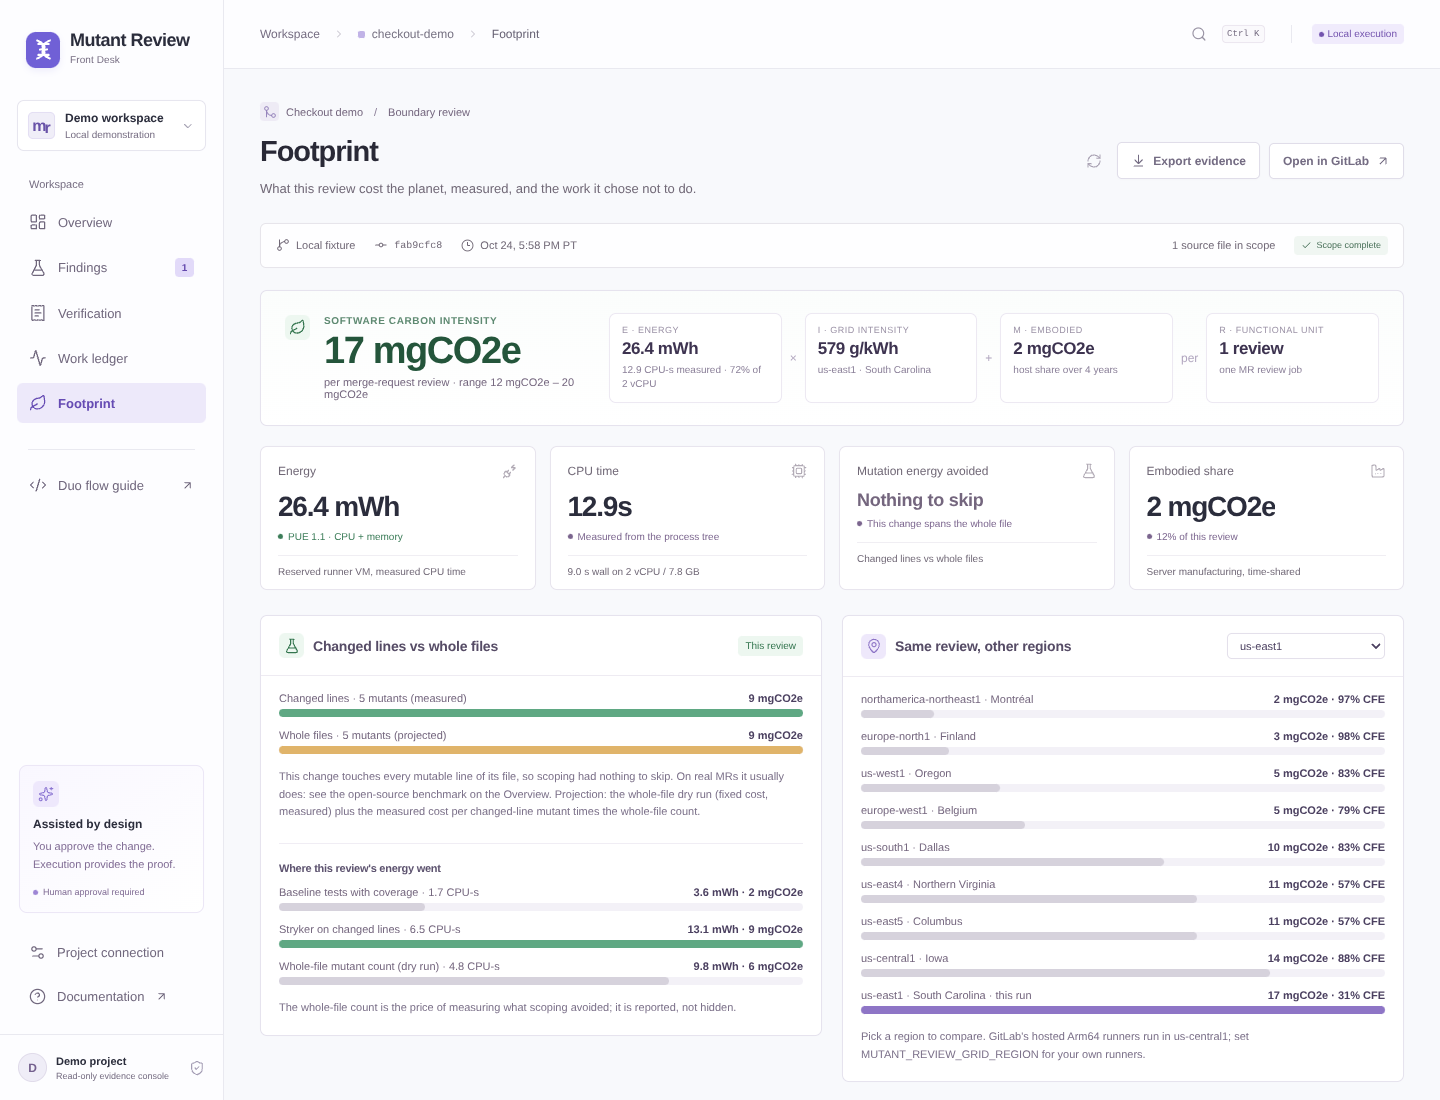
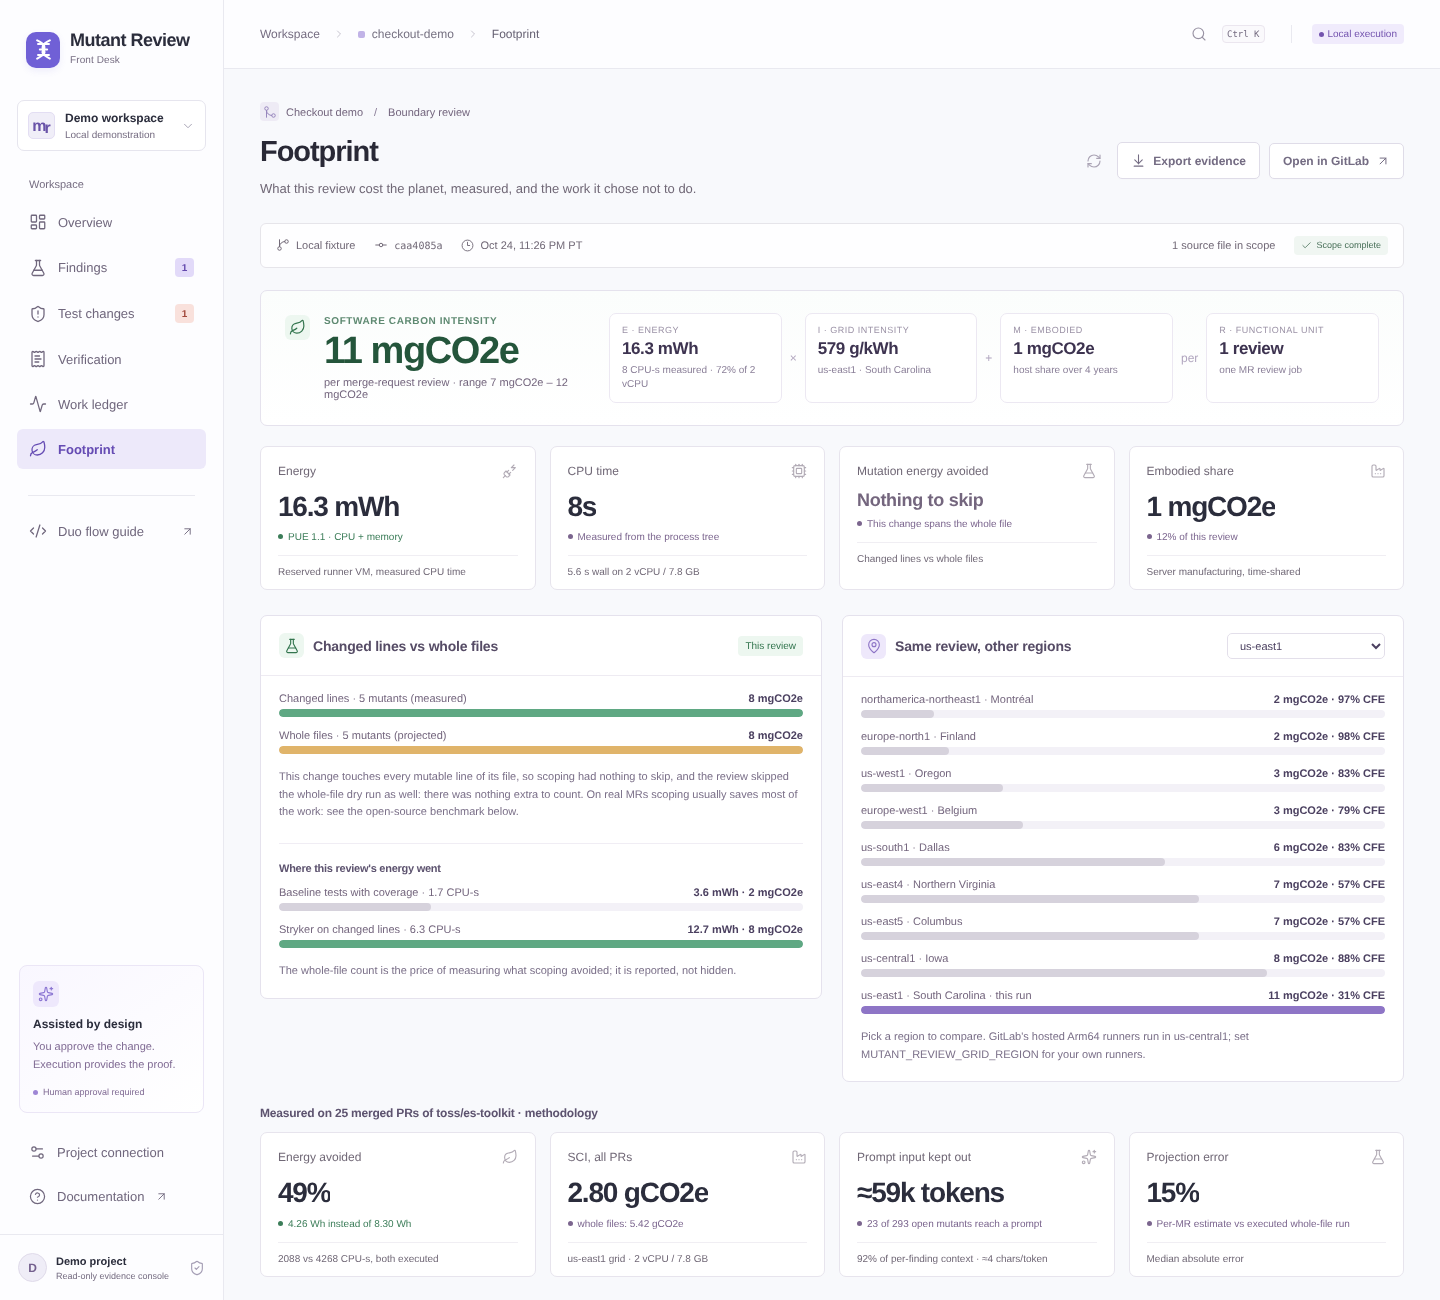
front-desk: lost-protection check among the sustainable-by-design practices; footprint screenshot with executed energy
Claude-Session: https://claude.ai/code/session_015huv5g53gdTnpF3Kg1NjaE

diff --git a/apps/front-desk/src/Footprint.tsx b/apps/front-desk/src/Footprint.tsx
@@ -9,6 +9,7 @@ import {
   Leaf,
   MapPin,
   PlugZap,
+  ShieldCheck,
   Sparkles,
 } from "lucide-react";
 import {
@@ -152,6 +153,14 @@ const PRACTICES = (e: Evidence) => {
       title: "Catch it before the pipeline",
       body: "The MCP pre-push check lets a coding agent verify its own tests locally, so a useless test never costs an MR pipeline or a review round.",
       effect: "mutation_check · verify_test",
+    },
+    {
+      icon: <ShieldCheck size={15} />,
+      title: "Check edited tests narrowly, and only when they change",
+      body: "The lost-protection check runs only on MRs that edit, move or delete a test, mutates only the code those tests import on the target branch, and re-runs only what they caught.",
+      effect: e.protection && e.protection.status !== "not-applicable"
+        ? `${e.protection.rechecked} re-checked${e.protection.cost ? ` · ${e.protection.cost.cpuSeconds} CPU-s` : ""}${e.protection.scenario ? " (demo scenario)" : ""}`
+        : "not needed in this review",
     },
     {
       icon: <PlugZap size={15} />,

diff --git a/AGENTS.md b/AGENTS.md
@@ -17,10 +17,11 @@ Mutant Review mutation-tests the lines a merge request changes and asks a human 
 - `npm test`: unit tests. `npm run test:e2e`: real Stryker run proving drafts are verified by execution.
 - `npm run typecheck`, `npm run build`.
 - `npm run demo`: local mutation review of the demo contract, written to `evidence/latest.json`.
-- `npm run check`: pre-push mutation check of your uncommitted changes. The same check is the `mutation_check` tool of the `mutant-review` MCP server (`.gitlab/duo/mcp.json`, `.mcp.json`).
+- `npm run check`: pre-push mutation check of your uncommitted changes, including protection your test edits removed. The same check is the `mutation_check` tool of the `mutant-review` MCP server (`.gitlab/duo/mcp.json`, `.mcp.json`).
 
 ## Rules
 
+- Never make a failing test pass by loosening its assertion, deleting it or skipping it, and never add `// Stryker disable` comments: the lost-protection check re-runs the target branch's caught mutants against your test edits and the gate blocks either.
 - Never weaken the evaluator to make a gate pass: `.mutant-review/policy.json`, `stryker.config.json`, `vitest*.config.ts`, `.gitlab-ci.yml` and `packages/{review-core,cli,gitlab-adapter}` are protected paths.
 - On `main`, the demo tests in `packages/demo-domain` deliberately miss the exact thresholds. Add tests there only when Mutant Review asks you to draft one for a finding.
 - Keep GitLab writes in `packages/gitlab-adapter`, behind an explicit human command.
